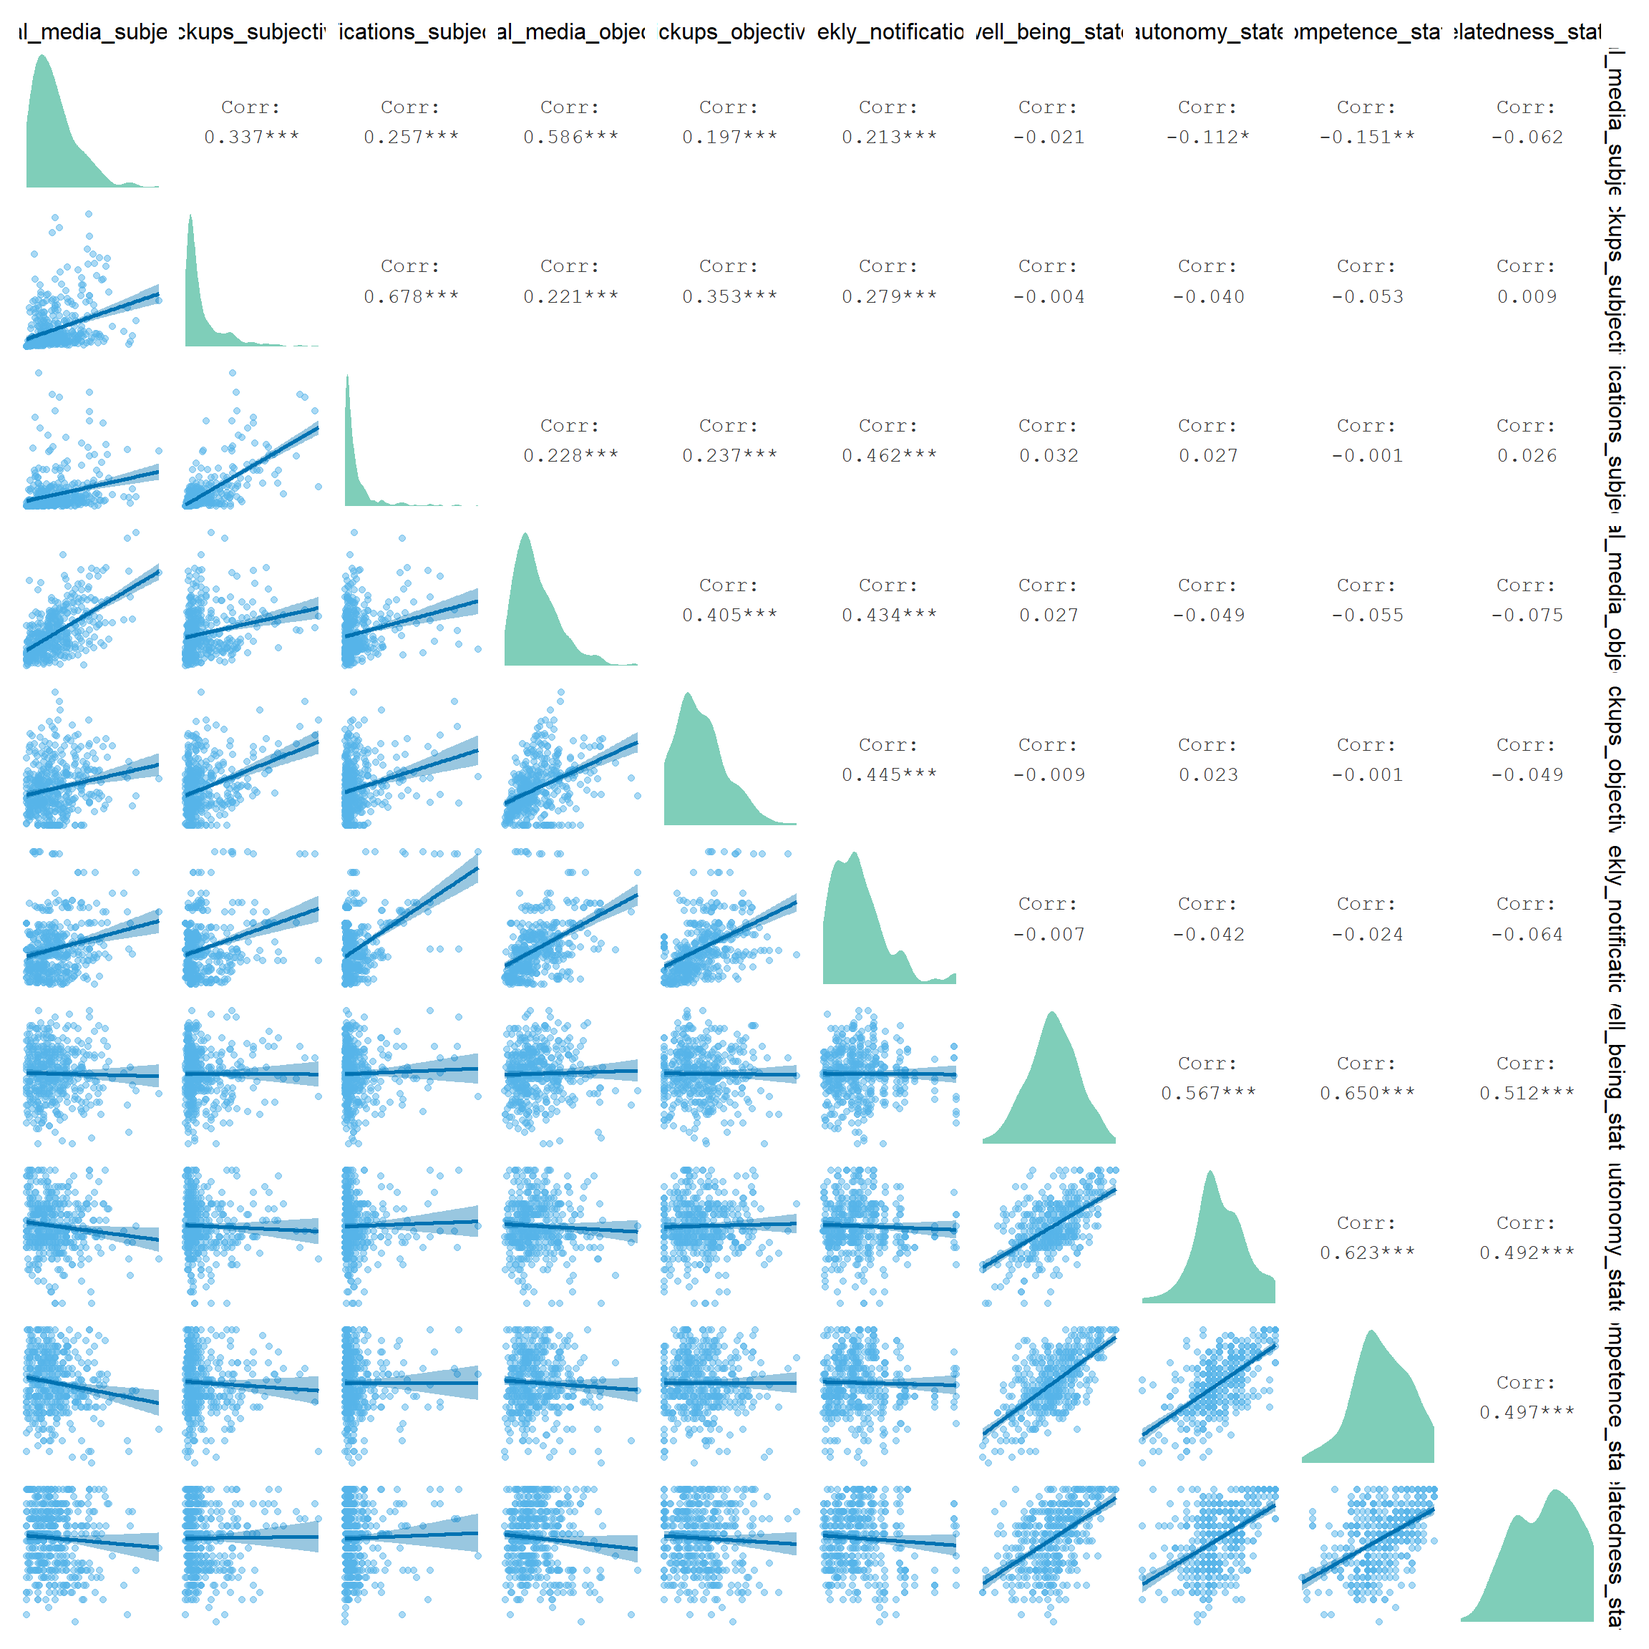
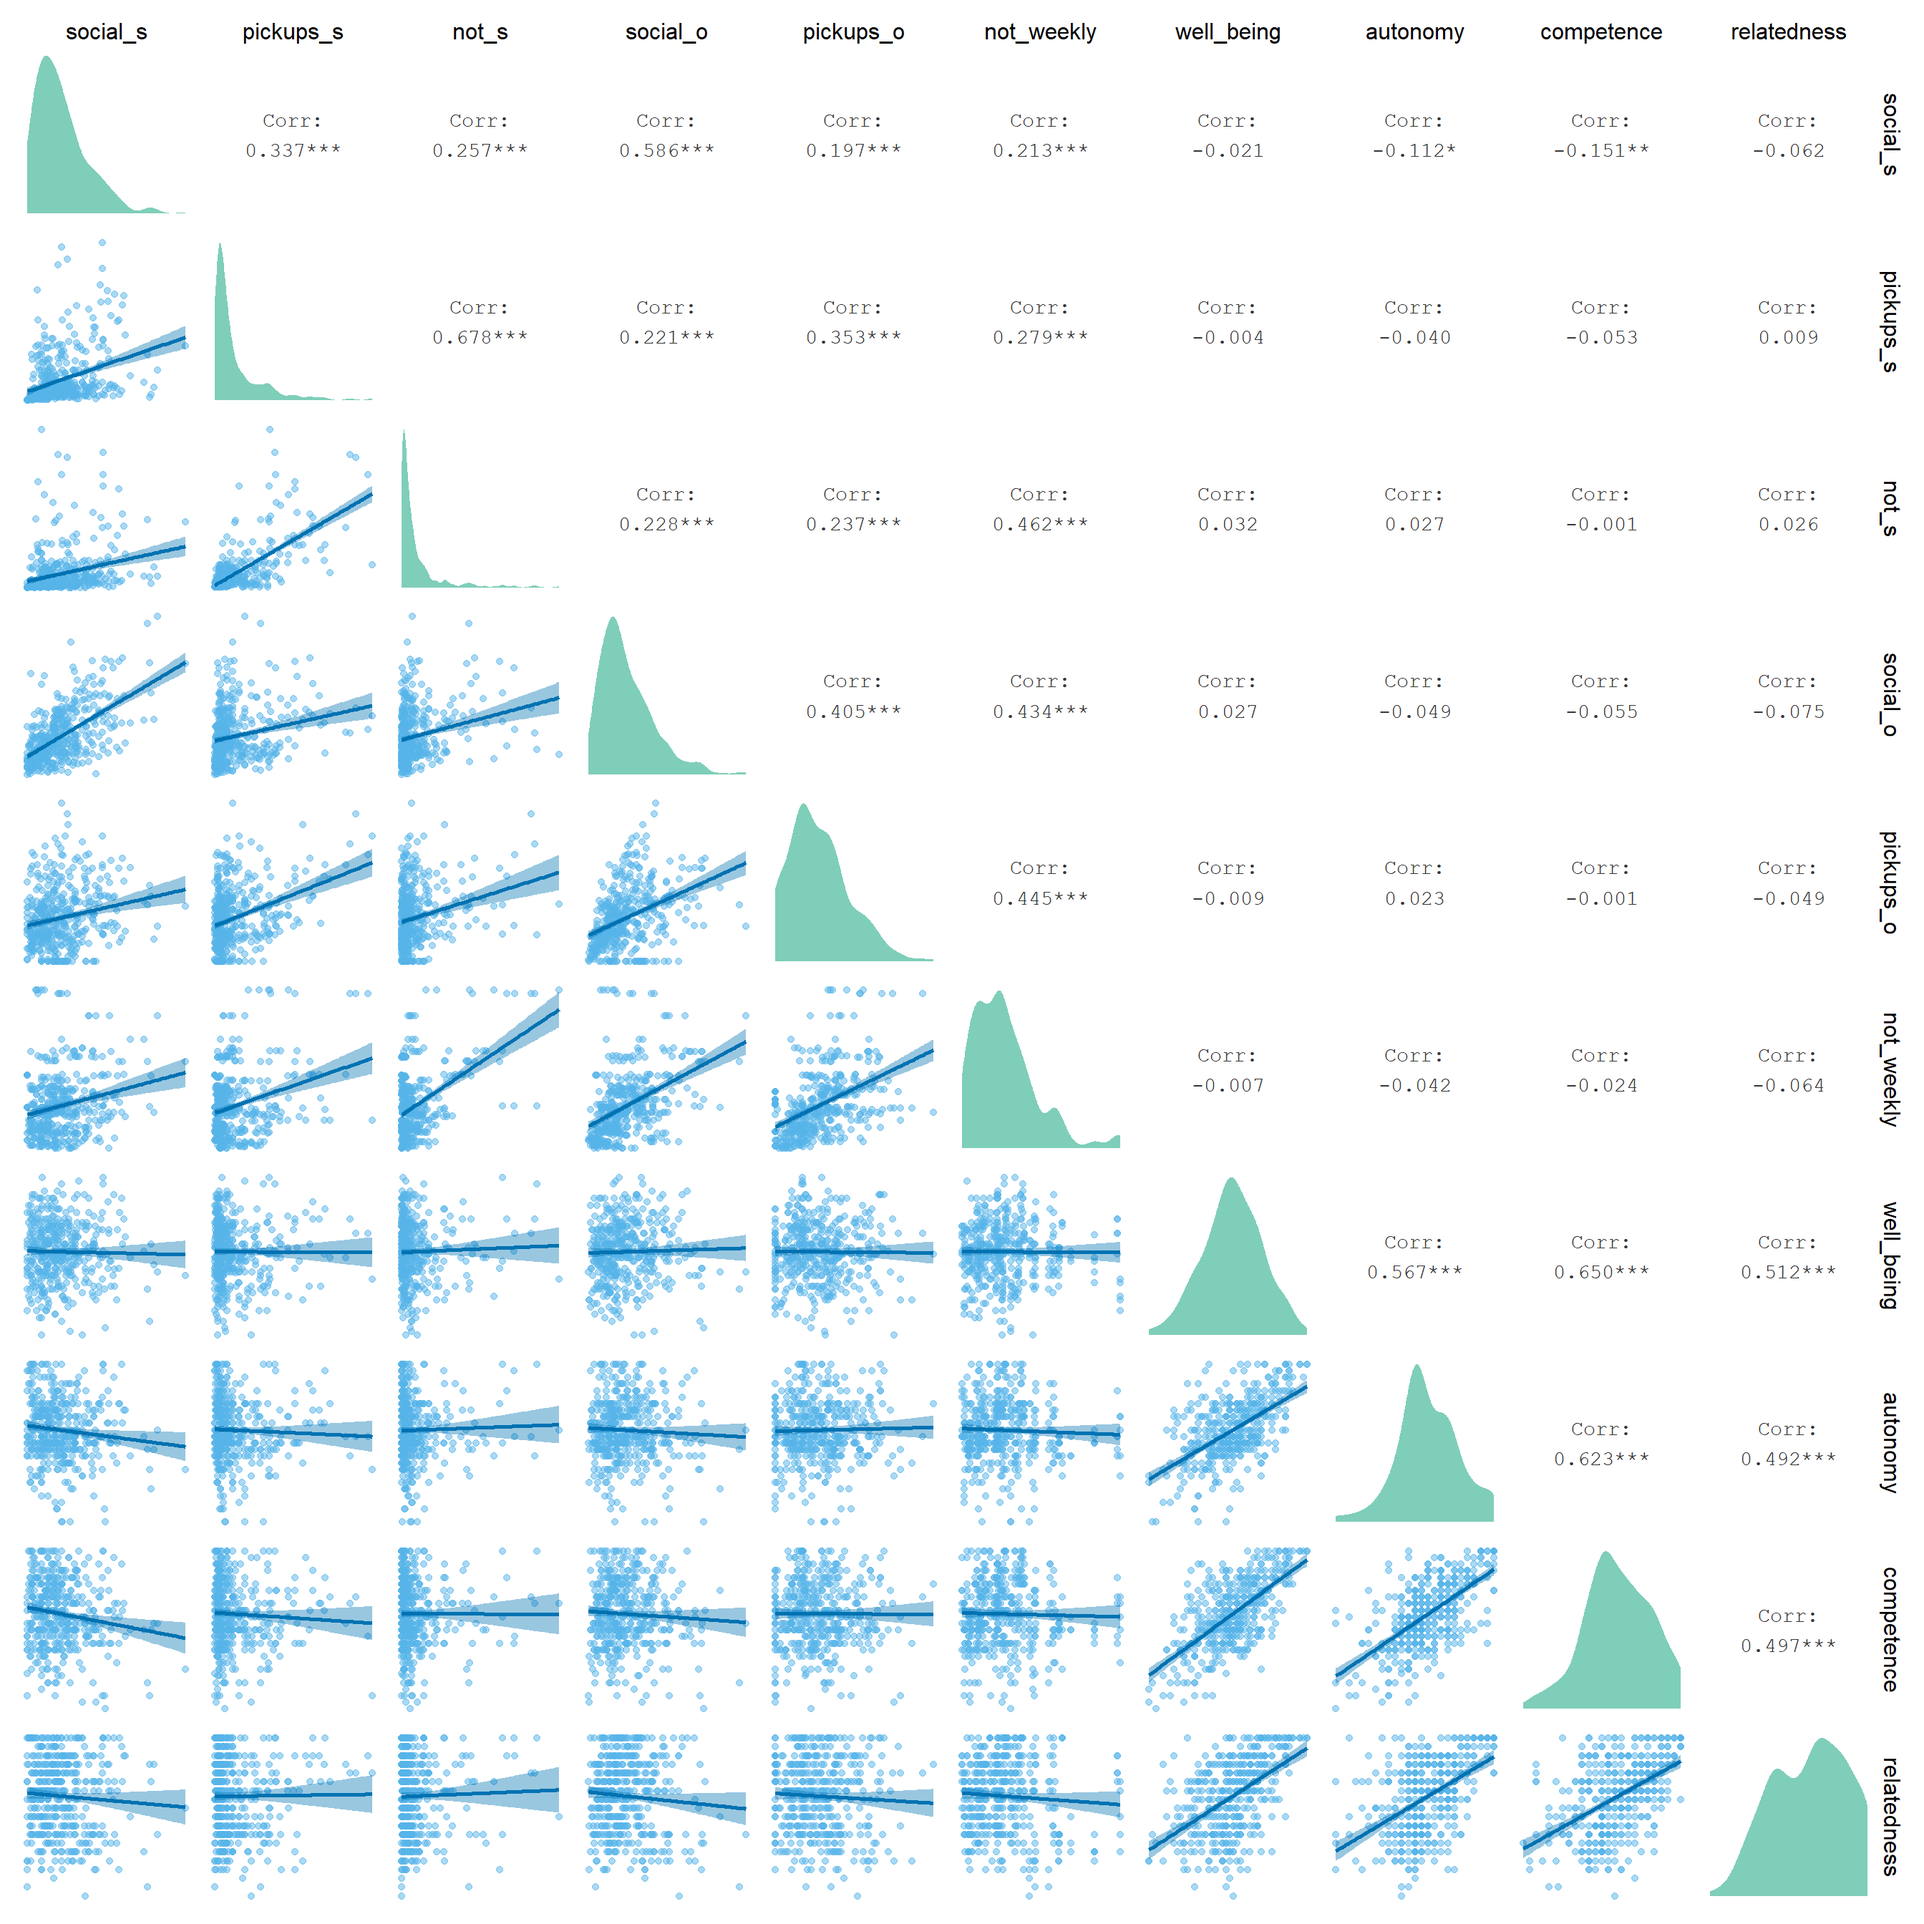
Shortened variables labels for cor matrices

diff --git a/docs/descriptives-and-visualizations-study-1.html b/docs/descriptives-and-visualizations-study-1.html
@@ -24,7 +24,7 @@
 <meta name="author" content="Niklas Johannes" />
 
 
-<meta name="date" content="2020-06-19" />
+<meta name="date" content="2020-06-24" />
 
   <meta name="viewport" content="width=device-width, initial-scale=1" />
   <meta name="apple-mobile-web-app-capable" content="yes" />
@@ -352,14 +352,6 @@ That distribution is heavily skewed (Figure <a href="descriptives-and-visualizat
 </tr>
 </tbody>
 </table>
-<div class="sourceCode" id="cb42"><pre class="sourceCode r"><code class="sourceCode r"><span id="cb42-1"><a href="descriptives-and-visualizations-study-1.html#cb42-1"></a><span class="kw">single_cloud</span>(</span>
-<span id="cb42-2"><a href="descriptives-and-visualizations-study-1.html#cb42-2"></a>  study1,</span>
-<span id="cb42-3"><a href="descriptives-and-visualizations-study-1.html#cb42-3"></a>  notifications,</span>
-<span id="cb42-4"><a href="descriptives-and-visualizations-study-1.html#cb42-4"></a>  <span class="st">&quot;weekly_notifications&quot;</span>,</span>
-<span id="cb42-5"><a href="descriptives-and-visualizations-study-1.html#cb42-5"></a>  <span class="st">&quot;#009E73&quot;</span>,</span>
-<span id="cb42-6"><a href="descriptives-and-visualizations-study-1.html#cb42-6"></a>  <span class="dt">title =</span> <span class="ot">NULL</span>,</span>
-<span id="cb42-7"><a href="descriptives-and-visualizations-study-1.html#cb42-7"></a>  <span class="dt">trait =</span> <span class="ot">TRUE</span></span>
-<span id="cb42-8"><a href="descriptives-and-visualizations-study-1.html#cb42-8"></a>)</span></code></pre></div>
 <div class="figure"><span id="fig:visualize-weekly-notifications-study1"></span>
 <img src="analysis_report_files/figure-html/visualize-weekly-notifications-study1-1.png" alt="Weekly notifications (objective) across all apps" width="672" />
 <p class="caption">
@@ -496,9 +488,9 @@ In Figure <a href="descriptives-and-visualizations-study-1.html#fig:visualize-co
 As expected psychological needs are correlated highly with each other.
 Credit for the <code>lm</code> lines goes to <a href="https://www.r-bloggers.com/multiple-regression-lines-in-ggpairs/">data prone</a>, whose idea I adapted.
 <div class="figure"><span id="fig:visualize-correlations-traits-study1"></span>
-<img src="analysis_report_files/figure-html/visualize-correlations-traits-study1-1.png" alt="Correlation matrix" width="1152" />
+<img src="analysis_report_files/figure-html/visualize-correlations-traits-study1-1.png" alt="Correlation matrix of trait level variables" width="1152" />
 <p class="caption">
-Figure 3.4: Correlation matrix
+Figure 3.4: Correlation matrix of trait level variables
 </p>
 </div>
 </div>
@@ -820,16 +812,16 @@ Figure 3.13: Distribution of state variables
 </div>
 In Figure <a href="descriptives-and-visualizations-study-1.html#fig:visualize-correlations-objective-subjective">3.14</a> we see the correlations between variables on the state level.
 <div class="figure"><span id="fig:visualize-correlations-objective-subjective"></span>
-<img src="analysis_report_files/figure-html/visualize-correlations-objective-subjective-1.png" alt="Correlation matrix 2" width="1152" />
+<img src="analysis_report_files/figure-html/visualize-correlations-objective-subjective-1.png" alt="Correlation matrix of state level variables. social = screen time on social media; _s = subjective; _o = objective; not = notifications" width="1344" />
 <p class="caption">
-Figure 3.14: Correlation matrix 2
+Figure 3.14: Correlation matrix of state level variables. social = screen time on social media; _s = subjective; _o = objective; not = notifications
 </p>
 </div>
 In Figure <a href="descriptives-and-visualizations-study-1.html#fig:visualize-correlations-objective-trait">3.15</a> we see the correlations between use variables on the state level and the trait level.
 <div class="figure"><span id="fig:visualize-correlations-objective-trait"></span>
-<img src="analysis_report_files/figure-html/visualize-correlations-objective-trait-1.png" alt="Correlation matrix 3" width="1440" />
+<img src="analysis_report_files/figure-html/visualize-correlations-objective-trait-1.png" alt="Correlation matrix of use variables (state) and personality traits. social = screen time on social media; _s = subjective; _o = objective; not = notifications; extra = extraversion; agree = agreeableness; con = conscientiousness; neuo = neuroticism; open = openness" width="1440" />
 <p class="caption">
-Figure 3.15: Correlation matrix 3
+Figure 3.15: Correlation matrix of use variables (state) and personality traits. social = screen time on social media; _s = subjective; _o = objective; not = notifications; extra = extraversion; agree = agreeableness; con = conscientiousness; neuo = neuroticism; open = openness
 </p>
 </div>
 

diff --git a/docs/index.html b/docs/index.html
@@ -24,7 +24,7 @@
 <meta name="author" content="Niklas Johannes" />
 
 
-<meta name="date" content="2020-06-19" />
+<meta name="date" content="2020-06-24" />
 
   <meta name="viewport" content="width=device-width, initial-scale=1" />
   <meta name="apple-mobile-web-app-capable" content="yes" />
@@ -172,7 +172,7 @@ code span.wa { color: #60a0b0; font-weight: bold; font-style: italic; } /* Warni
 <div id="header">
 <h1 class="title">Analysis Report</h1>
 <p class="author"><em>Niklas Johannes</em></p>
-<p class="date"><em>2020-06-19</em></p>
+<p class="date"><em>2020-06-24</em></p>
 </div>
 <div id="preface" class="section level1 unnumbered">
 <h1>Preface</h1>

diff --git a/docs/data-processing-study1.html b/docs/data-processing-study1.html
@@ -24,7 +24,7 @@
 <meta name="author" content="Niklas Johannes" />
 
 
-<meta name="date" content="2020-06-19" />
+<meta name="date" content="2020-06-24" />
 
   <meta name="viewport" content="width=device-width, initial-scale=1" />
   <meta name="apple-mobile-web-app-capable" content="yes" />

diff --git a/docs/setting-up-study1.html b/docs/setting-up-study1.html
@@ -24,7 +24,7 @@
 <meta name="author" content="Niklas Johannes" />
 
 
-<meta name="date" content="2020-06-19" />
+<meta name="date" content="2020-06-24" />
 
   <meta name="viewport" content="width=device-width, initial-scale=1" />
   <meta name="apple-mobile-web-app-capable" content="yes" />
